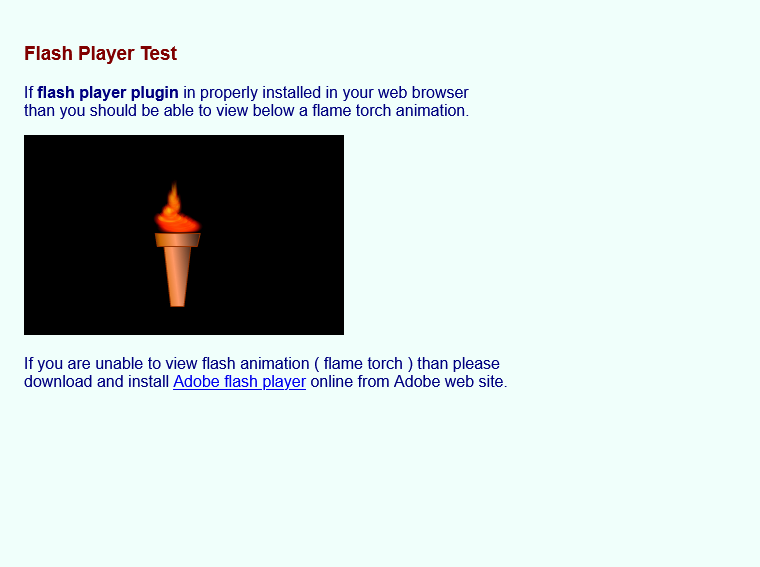
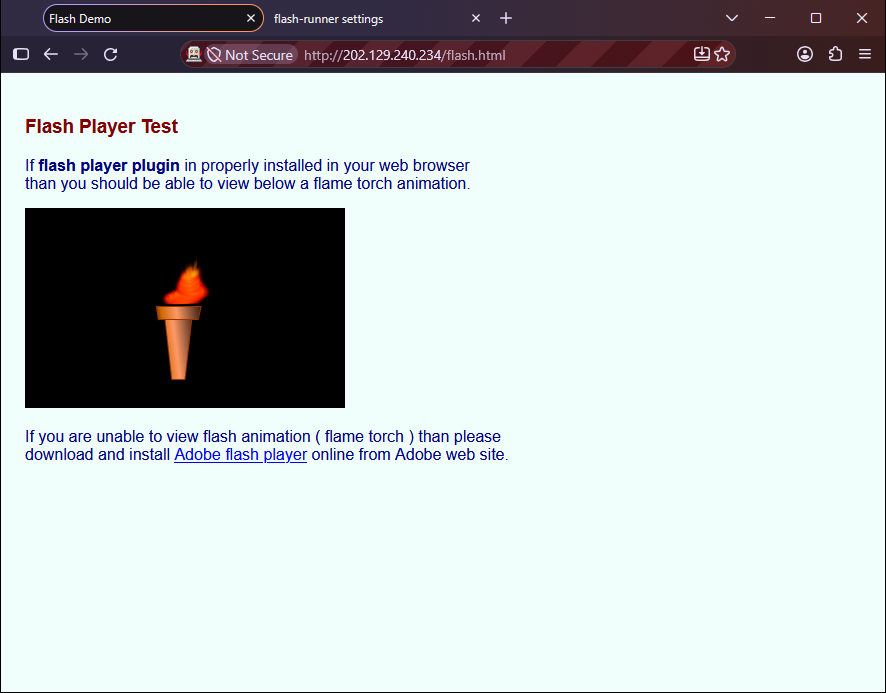
README: screenshots of the whole browser window
The four screenshots now show the real browser window (tabs, address bar, the
extensions button, the add-on's settings tab), not only the page. New
tools/window-shot.ps1 captures one window of a named process on Windows, so a
browser of the user's own is never photographed. ext-test.mjs --url gains
--hold to keep the browser open for it.

Changed region(s): [[0.0303, 0.1499, 0.6658, 0.6896], [0.0, 0.0, 1.0, 1.0], [0.0, 0.2998, 0.0303, 0.5697]]

diff --git a/docs/DEBUGGING.md b/docs/DEBUGGING.md
@@ -36,7 +36,7 @@ Debug log on). WebDriver cannot open `moz-extension://` pages itself, so the tes
 
 ## Screenshots of any page
 
-Both browser drivers can open an address of your choosing and save a screenshot of what the extension made of it (the README screenshots were taken this way):
+Both browser drivers can open an address of your choosing and save a screenshot of what the extension made of it. This captures the page only; it proves little to a reader:
 
 ```sh
 node tools/ext-test.mjs --bundled --url "https://example.com/flash.html" --seconds 20 --size 1280x800 --shots /tmp/shots   # custom-before.png; add --clicks "x,y" to click the page first
@@ -44,6 +44,18 @@ node tools/firefox-test.mjs --geckodriver /path/to/geckodriver --url "https://ex
 ```
 
 `--size` is the window size (Chrome's page area is a little smaller than the window). Only open pages whose content you trust: the movie runs, and may make requests, as it would in any browser.
+
+### Whole-window screenshots (Windows)
+
+The README screenshots show the real browser window: tabs, address bar, the extension. `tools/window-shot.ps1` captures one window of a process you name, so a browser of your own is never photographed:
+
+```powershell
+powershell -NoProfile -File tools/window-shot.ps1 -Title "Chrome" -ProcId <pid>[,<pid>...] -Out shot.png
+```
+
+Open a visible browser first and give its process ids: `node tools/ext-test.mjs --bundled --headed --url <address> --seconds 30 --size 1100x780 --hold 20` (`--hold` keeps Chrome open after the
+page's own screenshot; the test browser is the `chrome.exe` whose command line has `--remote-debugging-pipe`), or `node tools/firefox-test.mjs --geckodriver <path> --headed --url <address> --keep-open 1` (the
+`firefox.exe` processes with `-marionette` in their command line). The script raises the window briefly, then reads its own pixels with PrintWindow (a plain screen grab came out blank).
 
 ## Measuring performance
 

diff --git a/README.md b/README.md
@@ -28,7 +28,8 @@ stops and `pepper.js` does it with the real browser APIs. Details: [docs/ARCHITE
 
 ## Screenshots
 
-Flash Player 32.0.0.363 playing real pages in the browser through the extension. The pages belong to their owners and are shown only to demonstrate playback.
+Flash Player 32.0.0.363 playing real pages in the browser through the extension. These are screenshots of the whole browser window (Windows, taken with `tools/window-shot.ps1`),
+with the add-on's own settings tab and the extensions button visible. The pages belong to their owners and are shown only to demonstrate playback.
 
 <table>
   <tr>
@@ -44,8 +45,8 @@ Flash Player 32.0.0.363 playing real pages in the browser through the extension.
     <td><img src="docs/screenshots/chrome-test-flash-player.png" alt="webbrowsertools.com Test Flash Player in Chrome: several movies with Go and Stop buttons" width="400"></td>
   </tr>
   <tr>
-    <td align="center">The same test page in Firefox</td>
-    <td align="center">Five movies on one page in Chrome (the bumblebee animations are from DePaul University)</td>
+    <td align="center">The same test page in Firefox (the striped address bar is Firefox's remote-control indicator: a test script opened the page)</td>
+    <td align="center">A page with five movies in Chrome (the bumblebee animations are from DePaul University)</td>
   </tr>
 </table>
 
